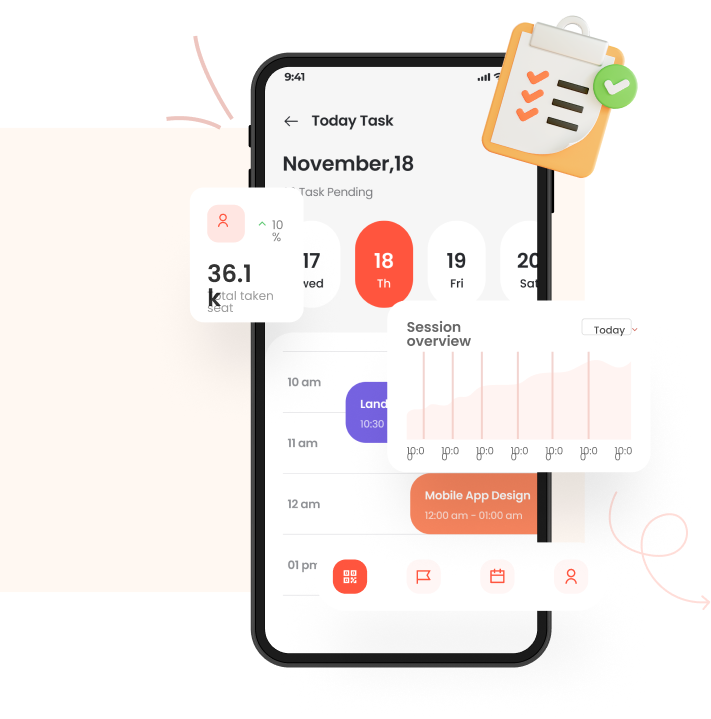
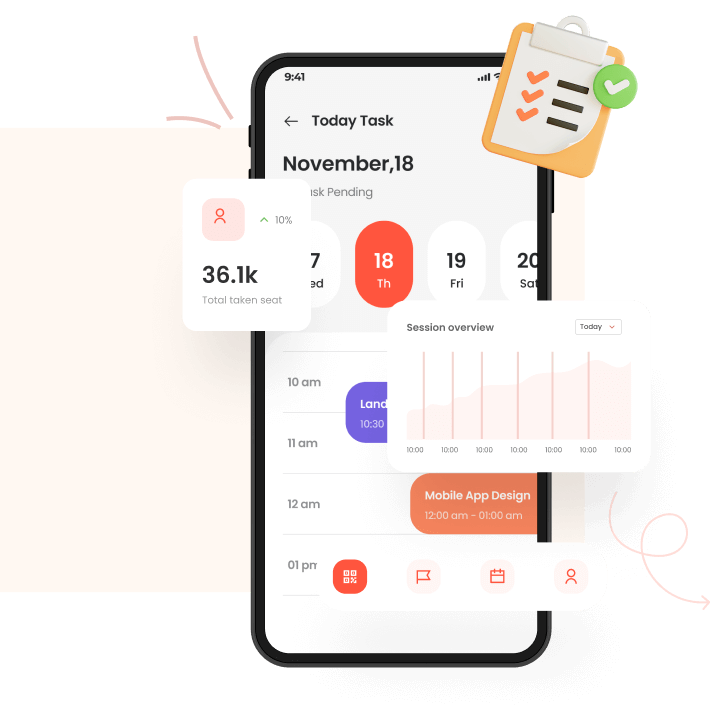
update breadcrumb+other

diff --git a/assets/js/main.js b/assets/js/main.js
@@ -322,8 +322,8 @@ $(".counter-item").each(function () {
 });
 
 
-// Pricing Toggle
 
+  /* Pricing Toggle */
 var checkBox = document.querySelectorAll("#checbox")
 
 for(let i = 0; i < checkBox.length; i++){
@@ -350,5 +350,15 @@ for(let i = 0; i < checkBox.length; i++){
 
   })
 }
+
+  /* Breadcrumb styles */
+$("[data-background").each(function () {
+  $(this).css("background-image", "url( " + $(this).attr("data-background") + "  )");
+});
+
+$("[data-bg-color]").each(function () {
+      $(this).css("background-color", $(this).attr("data-bg-color"));
+  });
+  
   
 }(jQuery));

diff --git a/assets/css/saasto-core.css b/assets/css/saasto-core.css
@@ -488,11 +488,6 @@ table tfoot tr th {
   padding-top: 220px;
 }
 
-.breadcrumb-area {
-  background-color: rgba(137, 118, 253, 0.1);
-  padding: 150px 0 150px;
-}
-
 .breadcrumb-info h3 {
   font-weight: 600;
   font-size: 40px;
@@ -5844,7 +5839,7 @@ ul.pricing-features{
   top: 50%;
   -webkit-transform: translateY(-50%);
           transform: translateY(-50%);
-  right: 30px;
+  right: 15px;
   width: 64px;
   height: 64px;
   background-color: #fff;

diff --git a/style.css b/style.css
@@ -7,7 +7,7 @@ Description: Saasto – Education WordPress Theme
 Requires at least: 5.4
 Tested up to: 6.1
 Requires PHP: 7.4
-Version: 1.0.19
+Version: 1.0.20
 License: GNU General Public License v2 or later
 License URI: LICENSE
 Text Domain: saasto

diff --git a/inc/template-helper.php b/inc/template-helper.php
@@ -300,83 +300,26 @@ add_action( 'wp_enqueue_scripts', 'saasto_scrollup_switch' );
 // theme color
 function saasto_custom_color() {
     $color_code = get_theme_mod( 'saasto_color_option', '#2b4eff' );
+    $breadcrumb_pt = get_theme_mod( 'breadcrumb_pt', '150' );
+    $breadcrumb_pb = get_theme_mod( 'breadcrumb_pb', '150' );
+    $breadcrumb_bg_color = get_theme_mod( 'breadcrumb_bg_color', 'rgba(137, 118, 253, 0.1)' );
+    $breadcrumb_bg = get_theme_mod( 'breadcrumb_bg', false );
     wp_enqueue_style( 'saasto-custom', SAASTO_THEME_CSS_DIR . 'saasto-custom.css', [] );
-    if ( $color_code != '' ) {
+    // if ( $color_code != '' ) {
         $custom_css = '';
-        $custom_css .= ".demo-class { background-color: " . $color_code . "}";
 
-        $custom_css .= ".demo-class { color: " . $color_code . "}";
-
-        $custom_css .= ".demo-class { border-color: " . $color_code . "}";
-        $custom_css .= ".demo-class { border-left-color: " . $color_code . "}";
-        $custom_css .= ".demo-class { stroke: " . $color_code . "}";
-        $custom_css .= ".demo-class { border-color: " . $color_code . "}";
+        $custom_css .= ".breadcrumb-area { 
+            background-image: " . $breadcrumb_bg . ";
+            background-color: " . $breadcrumb_bg_color . ";
+            padding-top: " . $breadcrumb_pt . "px;
+            padding-bottom: " . $breadcrumb_pb . "px;
+            background-color: " . $breadcrumb_bg_color . ";
+        
+        }";
         wp_add_inline_style( 'saasto-custom', $custom_css );
-    }
+    // }
 }
 add_action( 'wp_enqueue_scripts', 'saasto_custom_color' );
-
-
-// theme color
-function saasto_custom_color_primary() {
-    $color_code = get_theme_mod( 'saasto_color_option_2', '#f2277e' );
-    wp_enqueue_style( 'saasto-custom', SAASTO_THEME_CSS_DIR . 'saasto-custom.css', [] );
-    if ( $color_code != '' ) {
-        $custom_css = '';
-        $custom_css .= ".demo-class { background-color: " . $color_code . "}";
-
-        $custom_css .= ".demo-class { color: " . $color_code . "}";
-
-        $custom_css .= ".demo-class { border-left-color: " . $color_code . "}";
-        wp_add_inline_style( 'saasto-custom', $custom_css );
-    }
-}
-add_action( 'wp_enqueue_scripts', 'saasto_custom_color_primary' );
-
-// theme color
-function saasto_custom_color_scrollup() {
-    $color_code = get_theme_mod( 'saasto_color_scrollup', '#2b4eff' );
-    wp_enqueue_style( 'saasto-custom', SAASTO_THEME_CSS_DIR . 'saasto-custom.css', [] );
-    if ( $color_code != '' ) {
-        $custom_css = '';
-        $custom_css .= ".demo-class { color: " . $color_code . "}";
-        $custom_css .= ".demo-class { stroke: " . $color_code . "}";
-        wp_add_inline_style( 'saasto-custom', $custom_css );
-    }
-}
-add_action( 'wp_enqueue_scripts', 'saasto_custom_color_scrollup' );
-
-// theme color
-function saasto_custom_color_secondary() {
-    $color_code = get_theme_mod( 'saasto_color_option_3', '#30a820' );
-    wp_enqueue_style( 'saasto-custom', SAASTO_THEME_CSS_DIR . 'saasto-custom.css', [] );
-    if ( $color_code != '' ) {
-        $custom_css = '';
-        $custom_css .= ".demo-class { background-color: " . $color_code . "}";
-
-        $custom_css .= ".demo-class { color: " . $color_code . "}";
-
-        $custom_css .= ".asdf { border-color: " . $color_code . "}";
-        wp_add_inline_style( 'saasto-custom', $custom_css );
-    }
-}
-add_action( 'wp_enqueue_scripts', 'saasto_custom_color_secondary' );
-
-// theme color
-function saasto_custom_color_secondary_2() {
-    $color_code = get_theme_mod( 'saasto_color_option_3_2', '#ffb352' );
-    wp_enqueue_style( 'saasto-custom', SAASTO_THEME_CSS_DIR . 'saasto-custom.css', [] );
-    if ( $color_code != '' ) {
-        $custom_css = '';
-        $custom_css .= ".demo-class { background-color: " . $color_code . "}";
-
-        $custom_css .= ".demo-class { color: " . $color_code . "}";
-
-        $custom_css .= ".demo-class { border-color: " . $color_code . "}";
-        wp_add_inline_style( 'saasto-custom', $custom_css );
-    }
-}
-add_action( 'wp_enqueue_scripts', 'saasto_custom_color_secondary_2' );
 
 
 // saasto_kses_intermediate

diff --git a/page-templates/home-1.php b/page-templates/home-1.php
@@ -174,13 +174,13 @@ get_header();
                     <div class="tab-content" id="pills-tabContent">
 
                     <div class="tab-pane fade show active" id="pills-home" role="tabpanel" aria-labelledby="pills-home-tab">
-                        <div class="row">
+                        <div class="row justify-content-between">
 
-                            <div class="col-lg-6">
-                                <img src="<?php echo esc_url(get_template_directory_uri())?>/assets/img/tab.png" alt="<?php echo esc_attr('saasto', 'saasto'); ?>">
+                            <div class="col-lg-5">
+                                <img src="<?php echo esc_url(get_template_directory_uri())?>/assets/img/tab.png" class='w-100' alt="<?php echo esc_attr('saasto', 'saasto'); ?>">
                             </div>
 
-                            <div class="col-lg-6">
+                            <div class="col-lg-5">
                                 <div class="w-feature-content-title tab-info mt-5">
                                 <h3 class="text-bright-gray">Analytics & Reporting Brackdown</h3>
                                 <p class="text-purple-haze body-disply-1 pt-3">An enim nullam tempor sapien gravida donec enim ipsum porta justo  congue magna at pretium purus pretium ligula </p>
@@ -193,12 +193,9 @@ get_header();
                     </div>
 
                         <div class="tab-pane fade" id="pills-profile" role="tabpanel" aria-labelledby="pills-profile-tab">
-                            <div class="row">
-                                <div class="col-lg-6">
-                                <img src="<?php echo esc_url(get_template_directory_uri())?>/assets/img/tab.png" alt="<?php echo esc_attr('saasto', 'saasto'); ?>">
-                                </div>
-                                <div class="col-lg-6">
-                                    <div class="w-feature-content-title tab-info mt-5">
+                            <div class="row justify-content-center">
+                                <div class="col-lg-9">
+                                    <div class="w-feature-content-title tab-info text-center mt-5">
                                     <h3 class="text-bright-gray">Analytics & Reporting Brackdown</h3>
                                     <p class="text-purple-haze body-disply-1 pt-3">An enim nullam tempor sapien gravida donec enim ipsum porta justo  congue magna at pretium purus pretium ligula </p>
                                     <p class="text-purple-haze body-disply-1 pt-3">There are many variations of passages of Lorem Ipsum available, but the majority have suffered alteration in some form, by injected humour, or randomised words which don't look even slightly believable. If you are going to use a passage.</p>

diff --git a/inc/common/saasto-breadcrumb.php b/inc/common/saasto-breadcrumb.php
@@ -37,9 +37,6 @@ function saasto_breadcrumb_func() {
     elseif ( is_single() && 'product' == get_post_type() ) {
         $title = get_theme_mod( 'breadcrumb_product_details', __( 'Shop', 'saasto' ) );
     } 
-    elseif ( is_single() && 'courses' == get_post_type() ) {
-      $title = esc_html__( 'Course Details', 'saasto' );
-    } 
     elseif ( is_search() ) {
 
         $title = esc_html__( 'Search Results for : ', 'saasto' ) . get_search_query();
@@ -71,20 +68,20 @@ function saasto_breadcrumb_func() {
         $_id = get_option( 'page_for_posts' );
     }
 
-    $is_breadcrumb = function_exists( 'get_field' ) ? get_field( 'is_it_invisible_breadcrumb', $_id ) : '';
+    $is_breadcrumb = function_exists( 'get_field' ) ? get_field( 'is_it_invisible_breadcrumb', $_id ) : true;
+
     if( !empty($_GET['s']) ) {
       $is_breadcrumb = null;
     }
 
-      if ( !empty( $is_breadcrumb ) && $breadcrumb_show == 1 ) {
+      if ( $is_breadcrumb != NULL && $breadcrumb_show == 1 ) {
 
         $bg_img_from_page = function_exists('get_field') ? get_field('breadcrumb_background_image',$_id) : '';
         $hide_bg_img = function_exists('get_field') ? get_field('hide_breadcrumb_background_image',$_id) : '';
 
         // get_theme_mod
         $bg_img = get_theme_mod( 'breadcrumb_bg_img' );
-        $saasto_breadcrumb_shape_switch = get_theme_mod( 'saasto_breadcrumb_shape_switch', true );
-        $breadcrumb_info_switch = get_theme_mod( 'breadcrumb_info_switch', true );
+        $breadcrumb_switch = get_theme_mod( 'breadcrumb_switch', true );
 
         if ( $hide_bg_img && empty($_GET['s']) ) {
             $bg_img = '';
@@ -96,7 +93,7 @@ function saasto_breadcrumb_func() {
 
         <?php
         // Breadcrumb controller
-        if (!empty($breadcrumb_info_switch)) : ?>
+        if (!empty($breadcrumb_switch)) : ?>
         <div class="breadcrumb-area position-relative overflow-hidden <?php print esc_attr( $breadcrumb_class );?>" data-background="<?php print esc_attr($bg_img);?>">
             <div class="container">
                 <div class="row">
@@ -110,8 +107,6 @@ function saasto_breadcrumb_func() {
                     </div>
                 </div>
             </div>
-            <img class="top-0 start-0 position-absolute d-none d-lg-block" src="<?php echo esc_url(get_template_directory_uri( )) ?>/assets/img/shapes/breadcrumb-sp-1.png" alt="<?php echo esc_attr('saasto', 'saasto'); ?>">
-            <img class="position-absolute end-0 d-none d-lg-block" style=" bottom: -20px;" src="<?php echo esc_url(get_template_directory_uri( )) ?>/assets/img/shapes/breadcrumb-sp-2.png" alt="<?php echo esc_attr('saasto', 'saasto'); ?>">
         </div>
         <?php endif; ?>
 

diff --git a/inc/kirki-customizer.php b/inc/kirki-customizer.php
@@ -340,7 +340,21 @@ add_filter( 'kirki/fields', '_header_header_fields' );
 _header_page_title_fields
  */
 function _header_page_title_fields( $fields ) {
+    
     // Breadcrumb Setting
+    $fields[] = [
+        'type'     => 'switch',
+        'settings' => 'breadcrumb_switch',
+        'label'    => esc_html__( 'Breadcrumb Info switch', 'saasto' ),
+        'section'  => 'breadcrumb_setting',
+        'default'  => '1',
+        'priority' => 10,
+        'choices'  => [
+            'on'  => esc_html__( 'Enable', 'saasto' ),
+            'off' => esc_html__( 'Disable', 'saasto' ),
+        ],
+    ];
+
     $fields[] = [
         'type'        => 'image',
         'settings'    => 'breadcrumb_bg_img',
@@ -351,25 +365,27 @@ function _header_page_title_fields( $fields ) {
     ];
     $fields[] = [
         'type'        => 'color',
-        'settings'    => 'saasto_breadcrumb_bg_color',
+        'settings'    => 'breadcrumb_bg_color',
         'label'       => __( 'Breadcrumb BG Color', 'saasto' ),
         'description' => esc_html__( 'This is a Breadcrumb bg color control.', 'saasto' ),
         'section'     => 'breadcrumb_setting',
-        'default'     => '#f4f9fc',
+        'default'     => 'rgba(137, 118, 253, 0.1)',
         'priority'    => 10,
     ];
 
     $fields[] = [
-        'type'     => 'switch',
-        'settings' => 'breadcrumb_info_switch',
-        'label'    => esc_html__( 'Breadcrumb Info switch', 'saasto' ),
-        'section'  => 'breadcrumb_setting',
-        'default'  => '1',
-        'priority' => 10,
-        'choices'  => [
-            'on'  => esc_html__( 'Enable', 'saasto' ),
-            'off' => esc_html__( 'Disable', 'saasto' ),
-        ],
+        'type'        => 'number',
+        'settings'    => 'breadcrumb_pt',
+        'label'       => esc_html__( 'Padding top', 'saasto' ),
+        'section'     => 'breadcrumb_setting',
+        'default'     => '150'
+    ];
+    $fields[] = [
+        'type'        => 'number',
+        'settings'    => 'breadcrumb_pb',
+        'label'       => esc_html__( 'Padding Bottom', 'saasto' ),
+        'section'     => 'breadcrumb_setting',
+        'default'     => '150'
     ];
 
     return $fields;

diff --git a/inc/common/saasto-scripts.php b/inc/common/saasto-scripts.php
@@ -41,6 +41,9 @@ function saasto_scripts() {
     wp_enqueue_style( 'saasto-custom', SAASTO_THEME_CSS_DIR . 'saasto-custom.css', [] );
     wp_enqueue_style( 'saasto-style', get_stylesheet_uri() );
 
+    // add dynamic style
+
+
     // all js
     wp_enqueue_script( 'bootstrap-bundle', SAASTO_THEME_JS_DIR . 'bootstrap-bundle.js', [ 'jquery' ], '', true );
     wp_enqueue_script( 'swiper-bundle', SAASTO_THEME_JS_DIR . 'swiper-bundle.js', [ 'jquery' ], false, false );
